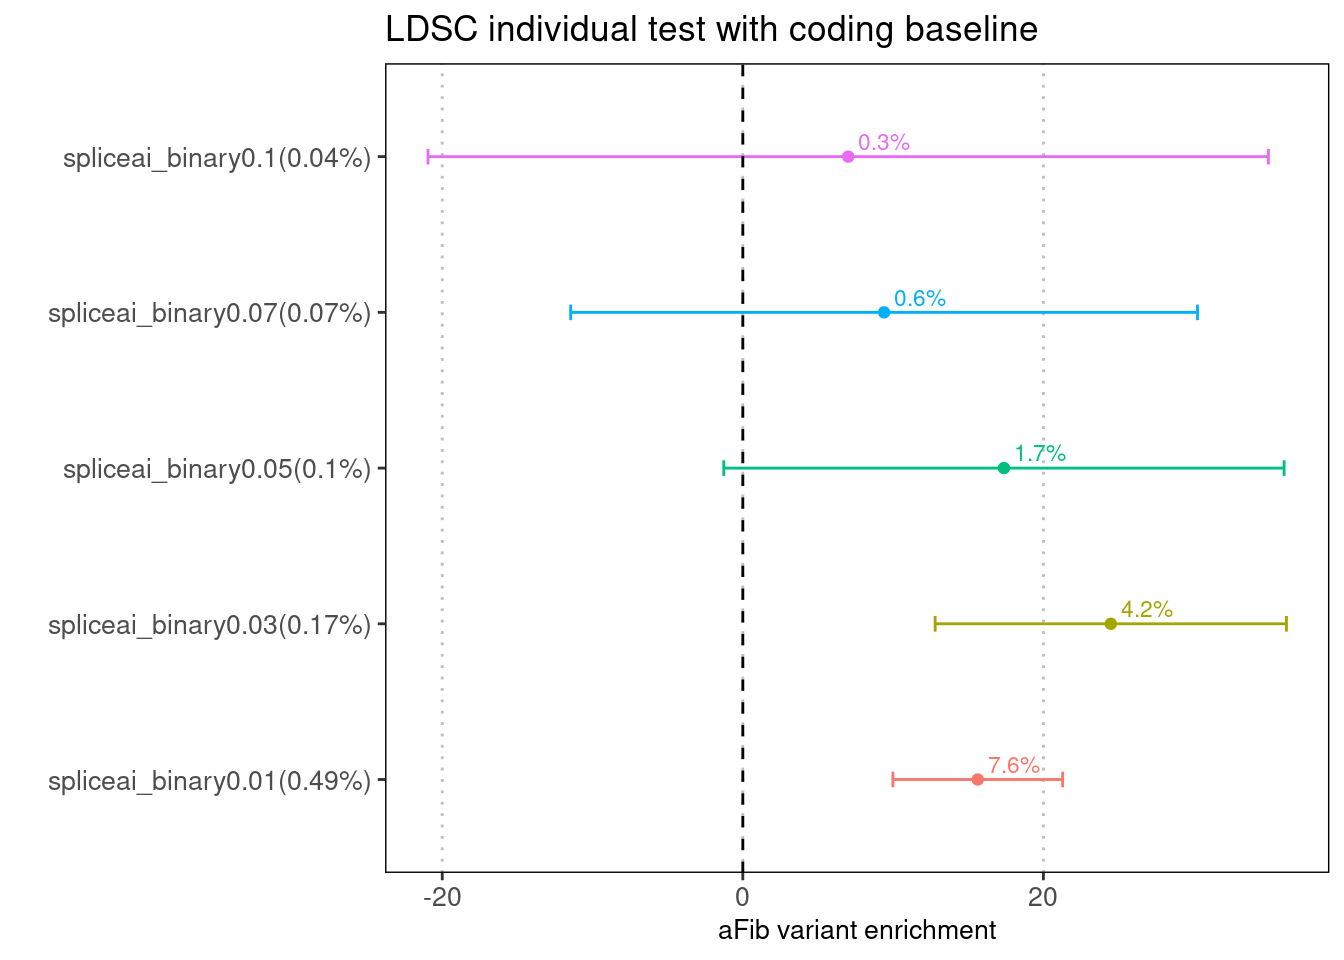
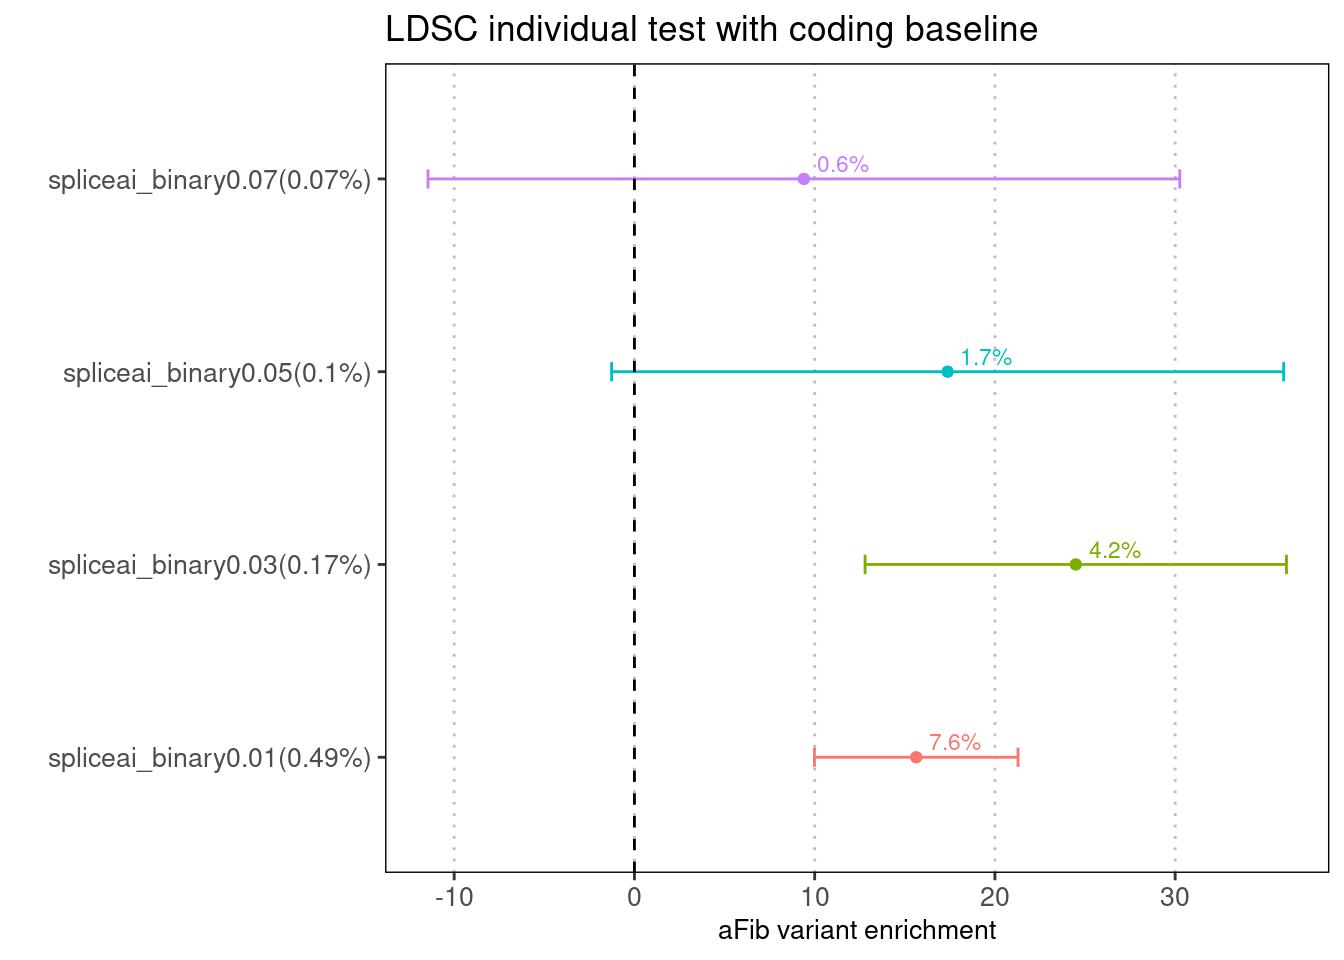
modify baseline annotations

diff --git a/docs/annotations_PTR.html b/docs/annotations_PTR.html
@@ -493,16 +493,16 @@ data/qqplot_SNPs_high_spliceAI.png
 <div class="panel panel-default">
 <div class="panel-heading">
 <p class="panel-title">
-<a data-toggle="collapse" data-parent="#workflowr-checks" href="#strongRepositoryversionstrongahrefhttpsgithubcomj3gufuncFinemappingtree2511e1656fb45b52a6e77ea5d5c0f0addd6a6792targetblank2511e16a"> <span class="glyphicon glyphicon-ok text-success" aria-hidden="true"></span> <strong>Repository version:</strong> <a href="https://github.com/j3gu/funcFinemapping/tree/2511e1656fb45b52a6e77ea5d5c0f0addd6a6792" target="_blank">2511e16</a> </a>
+<a data-toggle="collapse" data-parent="#workflowr-checks" href="#strongRepositoryversionstrongahrefhttpsgithubcomj3gufuncFinemappingtreea6ed61567049d8e8914966a4a6e47abe07cd742ftargetblanka6ed615a"> <span class="glyphicon glyphicon-ok text-success" aria-hidden="true"></span> <strong>Repository version:</strong> <a href="https://github.com/j3gu/funcFinemapping/tree/a6ed61567049d8e8914966a4a6e47abe07cd742f" target="_blank">a6ed615</a> </a>
 </p>
 </div>
[2 lines of base64/hex data omitted]
 <div class="panel-body">
 <p>
 Great! You are using Git for version control. Tracking code development and connecting the code version to the results is critical for reproducibility.
 </p>
 <p>
-The results in this page were generated with repository version <a href="https://github.com/j3gu/funcFinemapping/tree/2511e1656fb45b52a6e77ea5d5c0f0addd6a6792" target="_blank">2511e16</a>. See the <em>Past versions</em> tab to see a history of the changes made to the R Markdown and HTML files.
+The results in this page were generated with repository version <a href="https://github.com/j3gu/funcFinemapping/tree/a6ed61567049d8e8914966a4a6e47abe07cd742f" target="_blank">a6ed615</a>. See the <em>Past versions</em> tab to see a history of the changes made to the R Markdown and HTML files.
 </p>
 <p>
 Note that you need to be careful to ensure that all relevant files for the analysis have been committed to Git prior to generating the results (you can use <code>wflow_publish</code> or <code>wflow_git_commit</code>). workflowr only checks the R Markdown file, but you know if there are other scripts or data files that it depends on. Below is the status of the Git repository when the results were generated:
@@ -511,6 +511,7 @@ Note that you need to be careful to ensure that all relevant files for the analy
 Ignored files:
     Ignored:    .ipynb_checkpoints/
     Ignored:    analysis/build_annotations_for_single_cell_data.nb.html
+    Ignored:    analysis/figure/
     Ignored:    analysis/lab4_prepare.nb.html
     Ignored:    analysis/ldsc_results.nb.html
     Ignored:    analysis/learn_archR.nb.html
@@ -746,6 +747,23 @@ Message
 html
 </td>
 <td>
+<a href="https://rawcdn.githack.com/j3gu/funcFinemapping/a6ed61567049d8e8914966a4a6e47abe07cd742f/docs/annotations_PTR.html" target="_blank">a6ed615</a>
+</td>
+<td>
+Jing Gu
+</td>
+<td>
+2022-07-15
+</td>
+<td>
+modify baseline annotations
+</td>
+</tr>
+<tr>
+<td>
+html
+</td>
+<td>
 <a href="https://rawcdn.githack.com/j3gu/funcFinemapping/2511e1656fb45b52a6e77ea5d5c0f0addd6a6792/docs/annotations_PTR.html" target="_blank">2511e16</a>
 </td>
 <td>
@@ -927,6 +945,17 @@ Date
 <tbody>
 <tr>
 <td>
+<a href="https://github.com/j3gu/funcFinemapping/blob/a6ed61567049d8e8914966a4a6e47abe07cd742f/docs/figure/annotations_PTR.Rmd/unnamed-chunk-4-1.png" target="_blank">a6ed615</a>
+</td>
+<td>
+Jing Gu
+</td>
+<td>
+2022-07-15
+</td>
+</tr>
+<tr>
+<td>
 <a href="https://github.com/j3gu/funcFinemapping/blob/bb03726f327d1615d5ccb65e8bda00ad2e493f34/docs/figure/annotations_PTR.Rmd/unnamed-chunk-4-1.png" target="_blank">bb03726</a>
 </td>
 <td>
@@ -995,6 +1024,17 @@ Date
 <tbody>
 <tr>
 <td>
+<a href="https://github.com/j3gu/funcFinemapping/blob/a6ed61567049d8e8914966a4a6e47abe07cd742f/docs/figure/annotations_PTR.Rmd/unnamed-chunk-5-1.png" target="_blank">a6ed615</a>
+</td>
+<td>
+Jing Gu
+</td>
+<td>
+2022-07-15
+</td>
+</tr>
+<tr>
+<td>
 <a href="https://github.com/j3gu/funcFinemapping/blob/5ed2d281b7770d43c8f3d4b31f0a73c0634bbd4f/docs/figure/annotations_PTR.Rmd/unnamed-chunk-5-1.png" target="_blank">5ed2d28</a>
 </td>
 <td>
@@ -1043,6 +1083,17 @@ Date
 </tr>
 </thead>
 <tbody>
+<tr>
+<td>
+<a href="https://github.com/j3gu/funcFinemapping/blob/a6ed61567049d8e8914966a4a6e47abe07cd742f/docs/figure/annotations_PTR.Rmd/unnamed-chunk-6-1.png" target="_blank">a6ed615</a>
+</td>
+<td>
+Jing Gu
+</td>
+<td>
+2022-07-15
+</td>
+</tr>
 <tr>
 <td>
 <a href="https://github.com/j3gu/funcFinemapping/blob/7f557c4374c445d05054e21127b2bd30ab210e30/docs/figure/annotations_PTR.Rmd/unnamed-chunk-6-1.png" target="_blank">7f557c4</a>
@@ -1094,6 +1145,17 @@ Date
 <tbody>
 <tr>
 <td>
+<a href="https://github.com/j3gu/funcFinemapping/blob/a6ed61567049d8e8914966a4a6e47abe07cd742f/docs/figure/annotations_PTR.Rmd/unnamed-chunk-6-2.png" target="_blank">a6ed615</a>
+</td>
+<td>
+Jing Gu
+</td>
+<td>
+2022-07-15
+</td>
+</tr>
+<tr>
+<td>
 <a href="https://github.com/j3gu/funcFinemapping/blob/467bc60b6b35a97dec8a67306cf326a5fa678d23/docs/figure/annotations_PTR.Rmd/unnamed-chunk-6-2.png" target="_blank">467bc60</a>
 </td>
 <td>
@@ -1135,6 +1197,17 @@ Date
 </tr>
 </thead>
 <tbody>
+<tr>
+<td>
+<a href="https://github.com/j3gu/funcFinemapping/blob/a6ed61567049d8e8914966a4a6e47abe07cd742f/docs/figure/annotations_PTR.Rmd/unnamed-chunk-8-1.png" target="_blank">a6ed615</a>
+</td>
+<td>
+Jing Gu
+</td>
+<td>
+2022-07-15
+</td>
+</tr>
 <tr>
 <td>
 <a href="https://github.com/j3gu/funcFinemapping/blob/7f557c4374c445d05054e21127b2bd30ab210e30/docs/figure/annotations_PTR.Rmd/unnamed-chunk-8-1.png" target="_blank">7f557c4</a>
@@ -1187,6 +1260,17 @@ Date
 </tr>
 </thead>
 <tbody>
+<tr>
+<td>
+<a href="https://github.com/j3gu/funcFinemapping/blob/a6ed61567049d8e8914966a4a6e47abe07cd742f/docs/figure/annotations_PTR.Rmd/unnamed-chunk-9-1.png" target="_blank">a6ed615</a>
+</td>
+<td>
+Jing Gu
+</td>
+<td>
+2022-07-15
+</td>
+</tr>
 <tr>
 <td>
 <a href="https://github.com/j3gu/funcFinemapping/blob/2511e1656fb45b52a6e77ea5d5c0f0addd6a6792/docs/figure/annotations_PTR.Rmd/unnamed-chunk-9-1.png" target="_blank">2511e16</a>
@@ -1247,6 +1331,17 @@ Date
 </tr>
 </thead>
 <tbody>
+<tr>
+<td>
+<a href="https://github.com/j3gu/funcFinemapping/blob/a6ed61567049d8e8914966a4a6e47abe07cd742f/docs/figure/annotations_PTR.Rmd/unnamed-chunk-9-2.png" target="_blank">a6ed615</a>
+</td>
+<td>
+Jing Gu
+</td>
+<td>
+2022-07-15
+</td>
+</tr>
 <tr>
 <td>
 <a href="https://github.com/j3gu/funcFinemapping/blob/7f557c4374c445d05054e21127b2bd30ab210e30/docs/figure/annotations_PTR.Rmd/unnamed-chunk-9-2.png" target="_blank">7f557c4</a>
@@ -1384,7 +1479,45 @@ Jing Gu
 <div id="ldsc-results-with-different-baselines" class="section level3">
 <h3>LDSC results with different baselines</h3>
 <p>To know the impact of varying baselines on the enrichment estimation of spliceAI features, we focused on the binary annotation of spliceAI scores &gt;=0.05 and then added baseline annotations sequentially.</p>
-<p><img src="figure/annotations_PTR.Rmd/unnamed-chunk-14-1.png" width="1152" style="display: block; margin: auto;" /> <details> <summary>Fig 4.1 Enrichment results for spliceAI scores &gt;=0.05 under different baselines </summary> The full set of baseline annotations is from m6A paper, which include genomic annotation, MAF, nucleotide diversity, background selection and CpG content. Different genomic annotations from coding to UTR were added sequentially, one at a time. The labeled numbers refer to the enrichment p-value output from LDSC. </details></p>
+<p><img src="figure/annotations_PTR.Rmd/unnamed-chunk-14-1.png" width="1152" style="display: block; margin: auto;" /></p>
+<p>
+<button type="button" class="btn btn-default btn-xs btn-workflowr btn-workflowr-fig" data-toggle="collapse" data-target="#fig-unnamed-chunk-14-1">
+Past versions of unnamed-chunk-14-1.png
+</button>
+</p>
+<div id="fig-unnamed-chunk-14-1" class="collapse">
+<div class="table-responsive">
+<table class="table table-condensed table-hover">
+<thead>
+<tr>
+<th>
+Version
+</th>
+<th>
+Author
+</th>
+<th>
+Date
+</th>
+</tr>
+</thead>
+<tbody>
+<tr>
+<td>
+<a href="https://github.com/j3gu/funcFinemapping/blob/a6ed61567049d8e8914966a4a6e47abe07cd742f/docs/figure/annotations_PTR.Rmd/unnamed-chunk-14-1.png" target="_blank">a6ed615</a>
+</td>
+<td>
+Jing Gu
+</td>
+<td>
+2022-07-15
+</td>
+</tr>
+</tbody>
+</table>
+</div>
+</div>
+<p><details> <summary>Fig 4.1 Enrichment results for spliceAI scores &gt;=0.05 under different baselines </summary> The full set of baseline annotations is from m6A paper, which include genomic annotation, MAF, nucleotide diversity, background selection and CpG content. Different genomic annotations from coding to UTR were added sequentially, one at a time. The labeled numbers refer to the enrichment p-value output from LDSC. </details></p>
 <p>Jointly run with coding sequences, spliceAI scores remains to be enriched in several traits like scz and aFib. The enrichment p-value is not significant likely due to low sample size. Across traits, there seems to be a bigger drop in estimates when including introns or MAF.</p>
 <br>
 <p>
